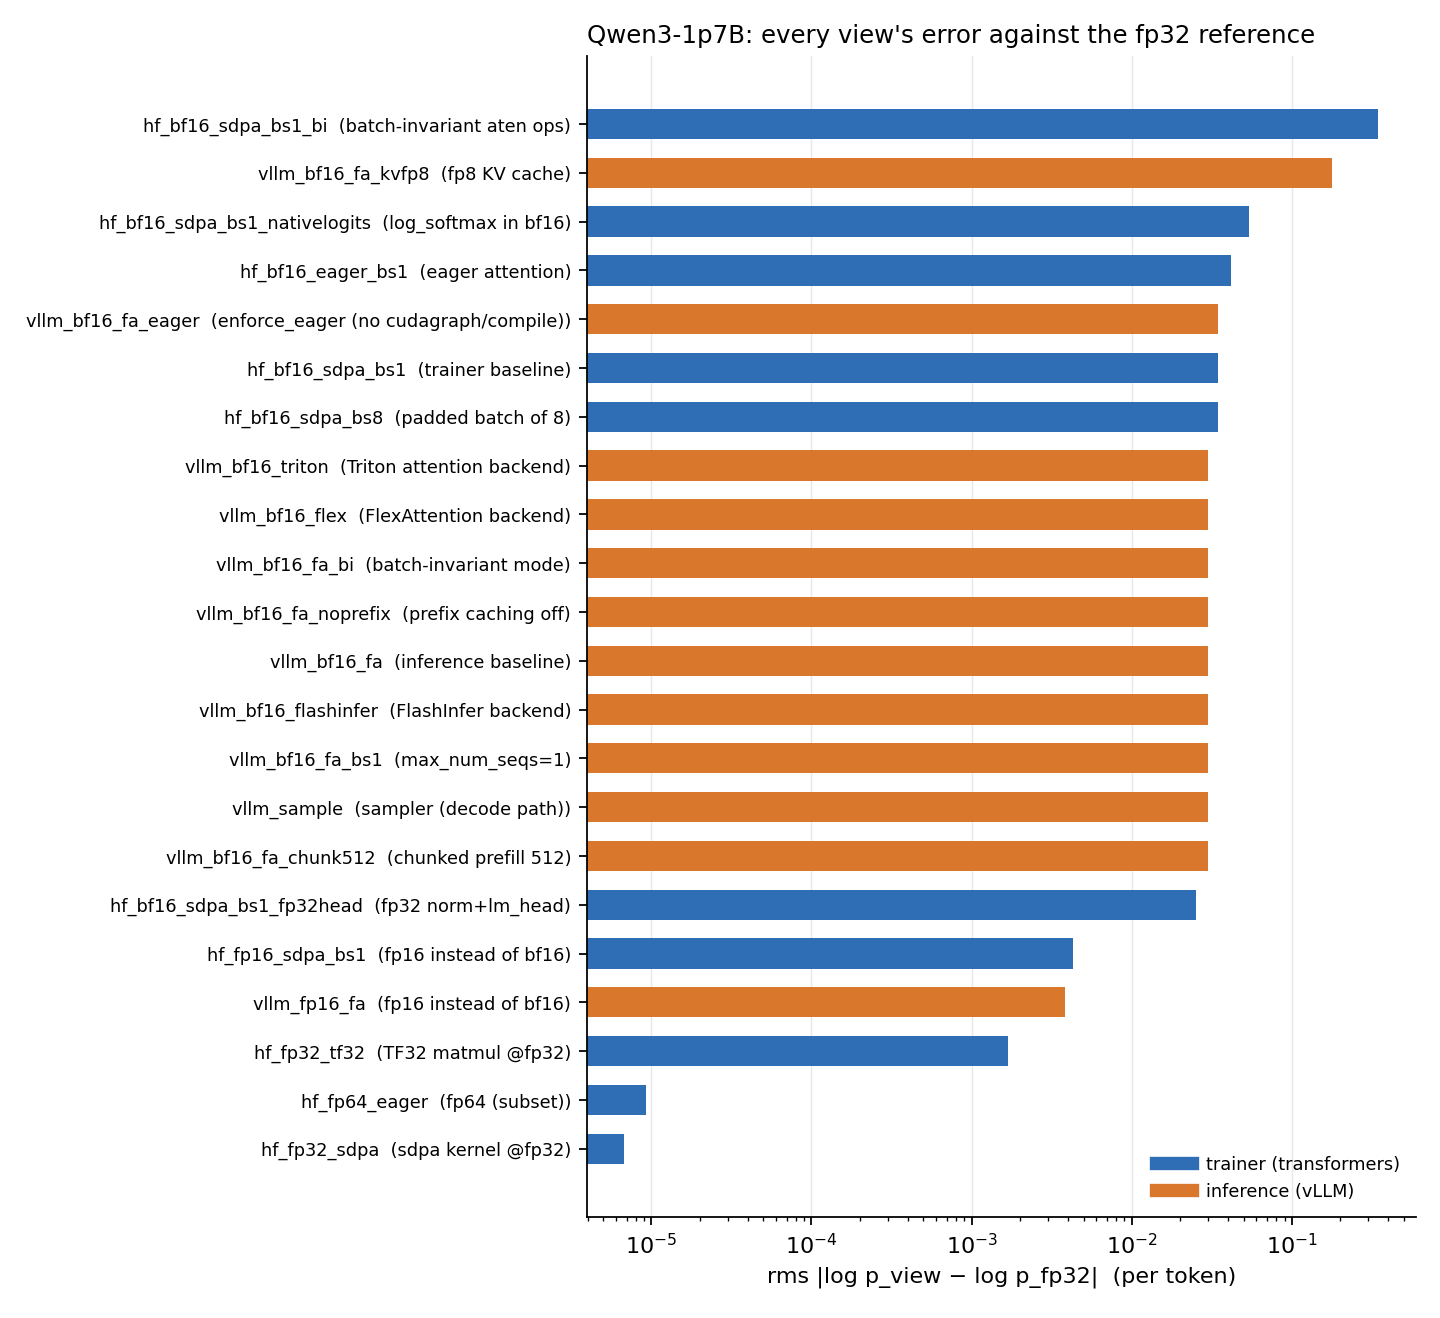
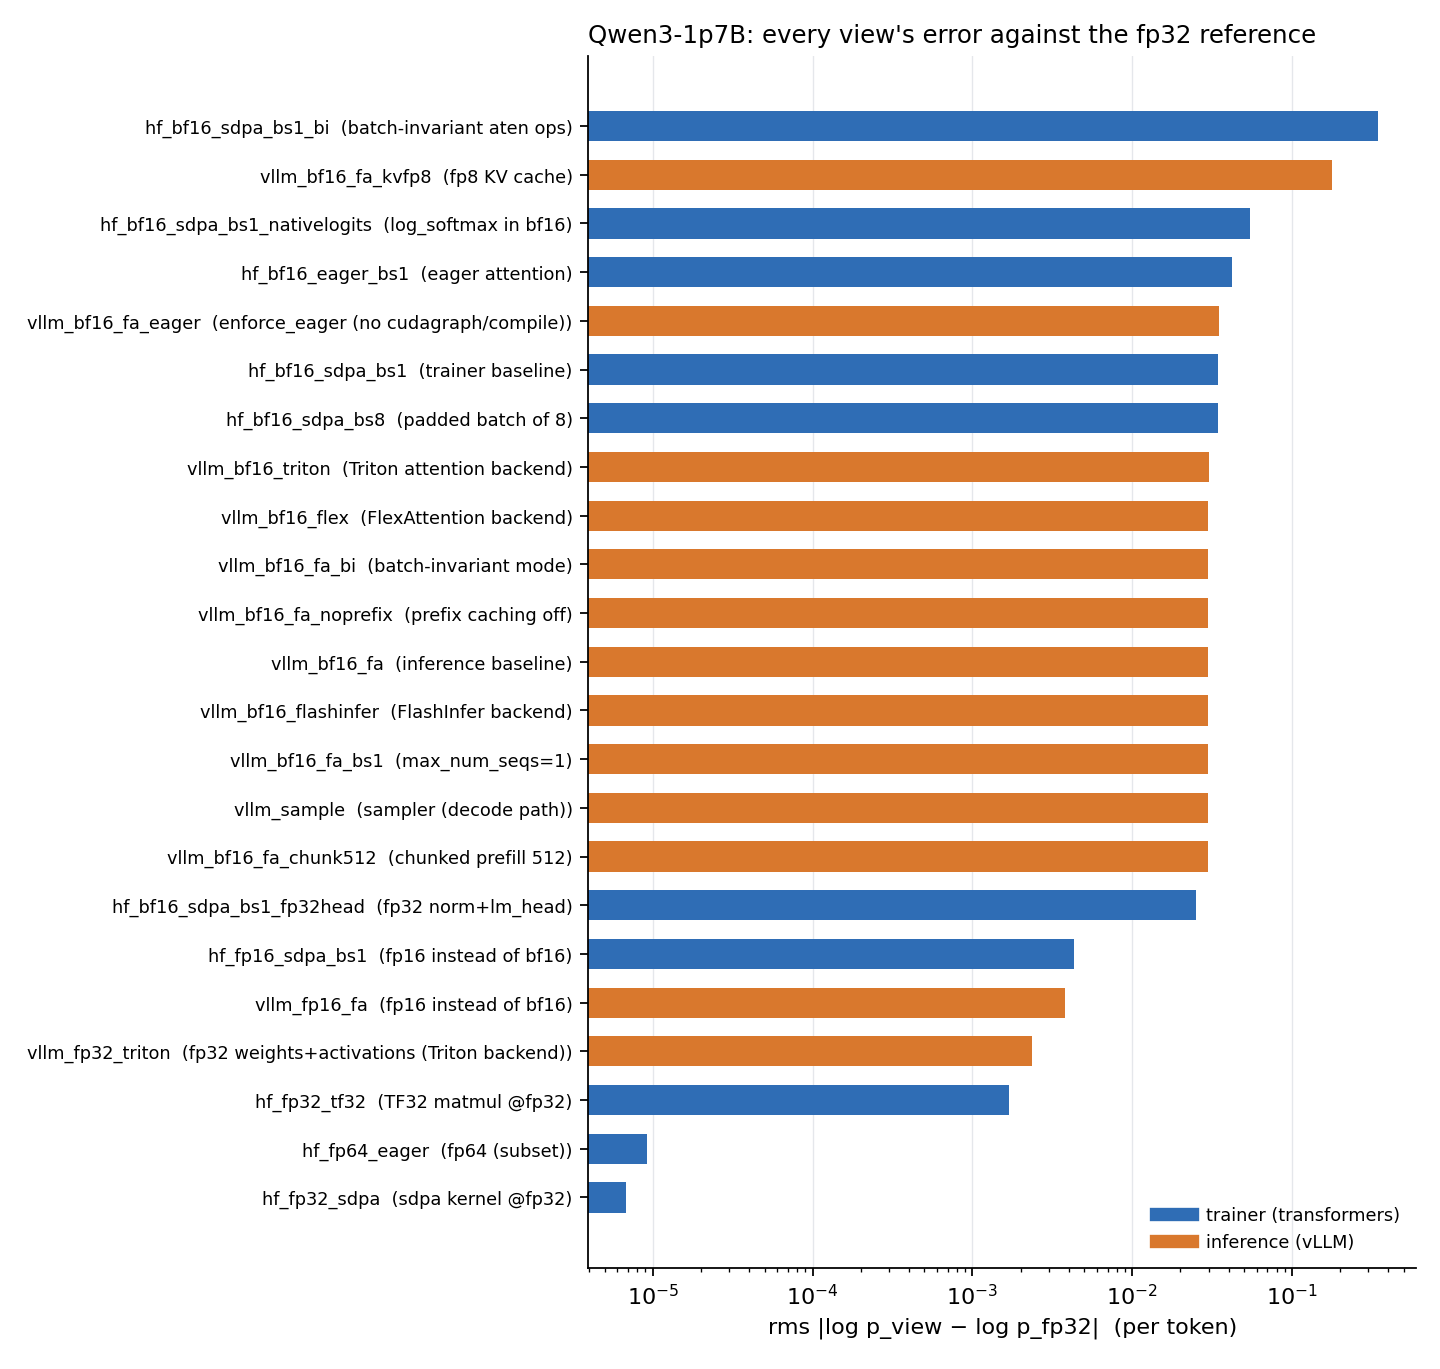
Measurement report complete (23/23 views): M1-M3 pass
Claude-Session: https://claude.ai/code/session_014xVrDZFtAThYqD1ufGs9Sm

Changed region(s): [[0.0, 0.0622, 0.9688, 0.9954], [0.4062, 0.0, 0.9062, 0.0311]]

diff --git a/docs/RESULTS_MEASURE_Qwen3-1p7B.md b/docs/RESULTS_MEASURE_Qwen3-1p7B.md
@@ -19,6 +19,7 @@ Noise floor (mean abs) = 3.309e-06; gate M1 (< 0.001): **PASS**
 | hf_fp32_sdpa | hf | sdpa kernel @fp32 | 6.795e-06 | 2.314e-06 | -2.18e-09 | 3.052e-05 | 0.0003929 | 0 |
 | hf_fp64_eager | hf | fp64 (subset) | 9.261e-06 | 3.309e-06 | -3.355e-08 | 4.196e-05 | 0.0003567 | 0 |
 | hf_fp32_tf32 | hf | TF32 matmul @fp32 | 0.00169 | 0.0005075 | -8.784e-07 | 0.00729 | 0.2440 | 1.297e-06 |
+| vllm_fp32_triton | vllm | fp32 weights+activations (Triton backend) | 0.002358 | 0.0007256 | -7.543e-06 | 0.0105 | 0.1891 | 0 |
 | vllm_fp16_fa | vllm | fp16 instead of bf16 | 0.003807 | 0.001341 | -2.315e-07 | 0.0174 | 0.2815 | 2.593e-06 |
 | hf_fp16_sdpa_bs1 | hf | fp16 instead of bf16 | 0.004316 | 0.001504 | -1.925e-05 | 0.0198 | 0.2474 | 1.297e-06 |
 | hf_bf16_sdpa_bs1_fp32head | hf | fp32 norm+lm_head | 0.0252 | 0.007864 | -0.0002985 | 0.1130 | 1.3731 | 0.001555 |
@@ -48,6 +49,7 @@ Noise floor (mean abs) = 3.309e-06; gate M1 (< 0.001): **PASS**
 | vLLM prefill vs vLLM decode (same engine) (vllm_bf16_fa vs vllm_sample) | 0.0102 | 0.0008769 | 5.157e-05 | 0.000328 | 0 | 0.8733 | 1.6420 |
 | batch-invariant: prefill vs decode (vllm_bf16_fa_bi vs vllm_sample @bi corpus) | 0 | 0 | 0 | 0 | 0 | 1.0000 | 0 |
 | fp16 both sides (hf_fp16_sdpa_bs1 vs vllm_fp16_fa) | 0.005698 | 0.001754 | - | 5.186e-06 | 0 | 0.9525 | 0.6338 |
+| fp32 both sides (kernel-only residual) (hf_fp32_eager vs vllm_fp32_triton) | 0.002358 | 0.0007256 | - | 0 | 0 | 0.9912 | 0.2733 |
 | batch-invariant both sides (hf_bf16_sdpa_bs1_bi vs vllm_bf16_fa_bi) | 0.3476 | 0.0248 | - | 0.0127 | 0.0003293 | 0.1670 | 158.0875 |
 | fp32 head on trainer only (hf_bf16_sdpa_bs1_fp32head vs vllm_bf16_fa) | 0.0384 | 0.0132 | - | 0.00468 | 7.779e-06 | 0.1989 | 5.5493 |
 
@@ -95,9 +97,17 @@ Baseline gap hf_bf16_sdpa_bs1 vs vllm_bf16_fa: rms 0.0449, mean abs 0.0139, outs
 | padded batch of 8 (hf_bf16_sdpa_bs8) | hf | 0.0449 | 1.707e-05 | 0.0345 | -0.00012 |
 | fp32 norm+lm_head (hf_bf16_sdpa_bs1_fp32head) | hf | 0.0384 | -0.006521 | 0.0252 | -0.009432 |
 | fp16 instead of bf16 (vllm_fp16_fa) | vllm | 0.0348 | -0.0101 | 0.003807 | -0.0260 |
+| fp32 weights+activations (Triton backend) (vllm_fp32_triton) | vllm | 0.0347 | -0.0102 | 0.002358 | -0.0275 |
 | fp16 instead of bf16 (hf_fp16_sdpa_bs1) | hf | 0.0301 | -0.0148 | 0.004316 | -0.0303 |
 | TF32 matmul @fp32 (hf_fp32_tf32) | hf | 0.0299 | -0.0150 | 0.00169 | -0.0329 |
 | sdpa kernel @fp32 (hf_fp32_sdpa) | hf | 0.0298 | -0.0151 | 6.795e-06 | -0.0346 |
+
+### dtype vs kernels
+
+- fp32 both sides (kernel-only residual): rms 0.002358
+- trainer side: bf16 error 0.0346 vs sdpa@fp32 error 6.795e-06
+- inference side: bf16 error 0.0298 vs fp32-vLLM error 0.002358
+- independence check: predicted gap sqrt(ea^2+eb^2) = 0.0457, measured 0.0449, corr(err_a, err_b) = 0.0351 -> gate M3 **PASS**
 
 ## M2 phenomenon reproduces
 
